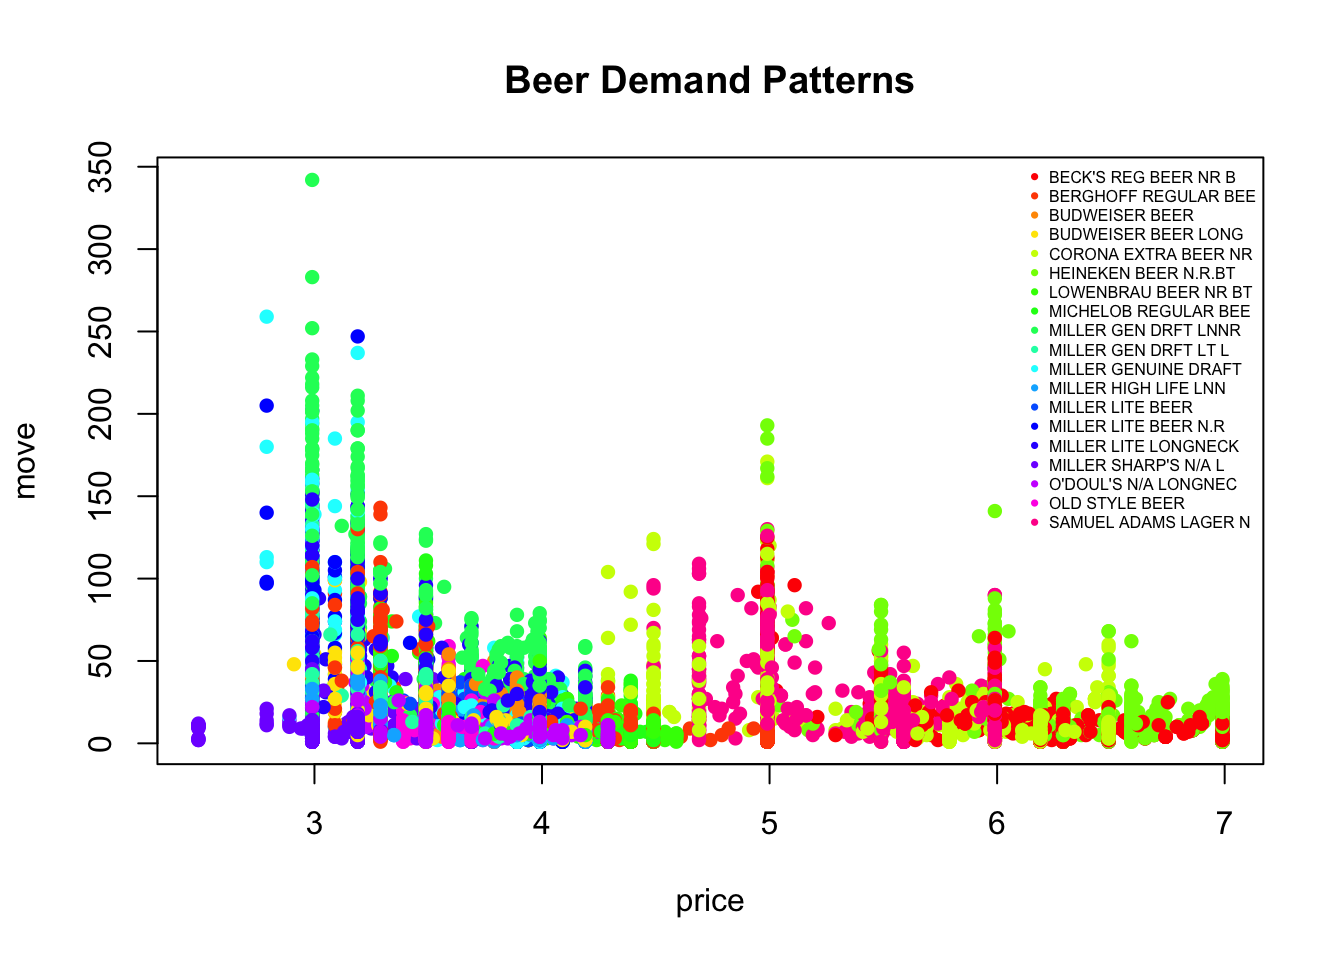
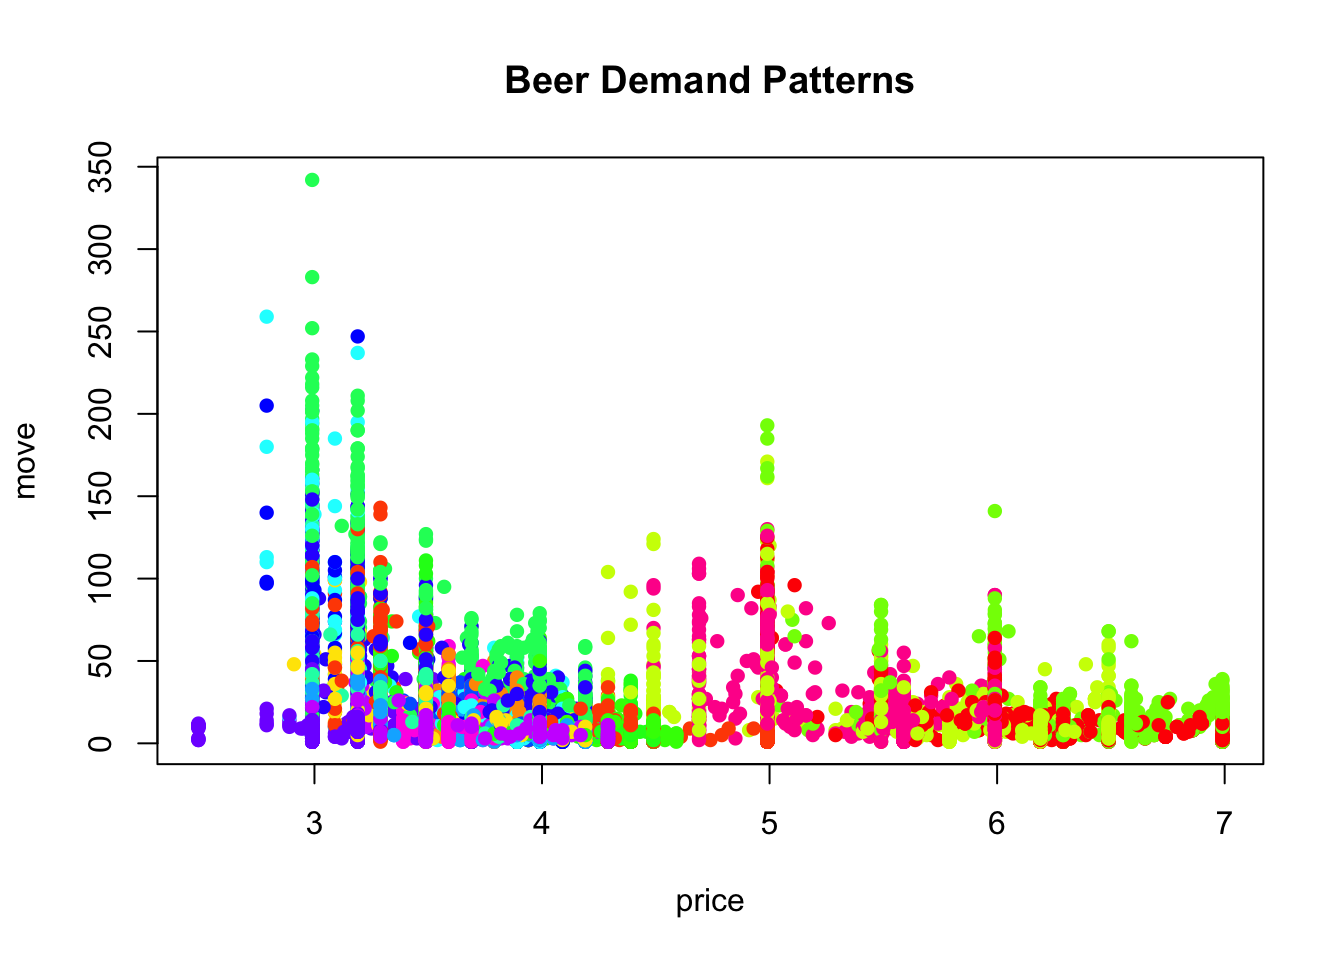
updated graphs

Changed region(s): [[0.7812, 0.1562, 0.9375, 0.5625]]

diff --git a/docs/introduction-to-data-analytics.html b/docs/introduction-to-data-analytics.html
@@ -742,8 +742,7 @@ SAMUEL ADAMS LAGER N
 <p>Often times, adding color is a great way to incorporate information about other variables. For example, should the relationship between price and demand change by brand? The answer is likely yes. To see this visually, let’s change the color of each point to represent the corresponding brand.</p>
 <div class="sourceCode" id="cb20"><pre class="sourceCode r"><code class="sourceCode r"><a class="sourceLine" id="cb20-1" data-line-number="1">palette =<span class="st"> </span><span class="kw">rainbow</span>(<span class="dv">20</span>)</a>
 <a class="sourceLine" id="cb20-2" data-line-number="2">colors =<span class="st"> </span>palette[<span class="kw">as.numeric</span>(brand)]</a>
-<a class="sourceLine" id="cb20-3" data-line-number="3"><span class="kw">plot</span>(price, move, <span class="dt">main=</span><span class="st">&quot;Beer Demand Patterns&quot;</span>, <span class="dt">pch=</span><span class="dv">16</span>, <span class="dt">col=</span>colors)</a>
-<a class="sourceLine" id="cb20-4" data-line-number="4"><span class="kw">legend</span>(<span class="st">&quot;topright&quot;</span>, <span class="dt">legend=</span><span class="kw">levels</span>(brand), <span class="dt">pch=</span><span class="dv">16</span>, <span class="dt">col=</span>palette, <span class="dt">cex=</span>.<span class="dv">5</span>, <span class="dt">bty=</span><span class="st">&quot;n&quot;</span>)</a></code></pre></div>
+<a class="sourceLine" id="cb20-3" data-line-number="3"><span class="kw">plot</span>(price, move, <span class="dt">main=</span><span class="st">&quot;Beer Demand Patterns&quot;</span>, <span class="dt">pch=</span><span class="dv">16</span>, <span class="dt">col=</span>colors)</a></code></pre></div>
 <p><img src="_main_files/figure-html/unnamed-chunk-20-1.png" width="672" /></p>
 <p>The first line of code generates 20 unique colors from a rainbow palette, one for each brand. Because there are hundreds of points on our scatter plot, we need to identify assign a color to each point. This is what the second line of code does. In the third line, we simply use the <code>colors</code> object we just created to specify point colors.</p>
 <p>The last line of code adds a legend to the plot so that we know what the colors correspond to. The first argument indicates the legend position, the second argument <code>legend</code> indicates the values to be shown on the legend, the third argument <code>pch</code> is the point type, the fourth argument <code>col</code> is the color for each value, and the fifth argument <code>cex</code> adjusts the text size.</p>
